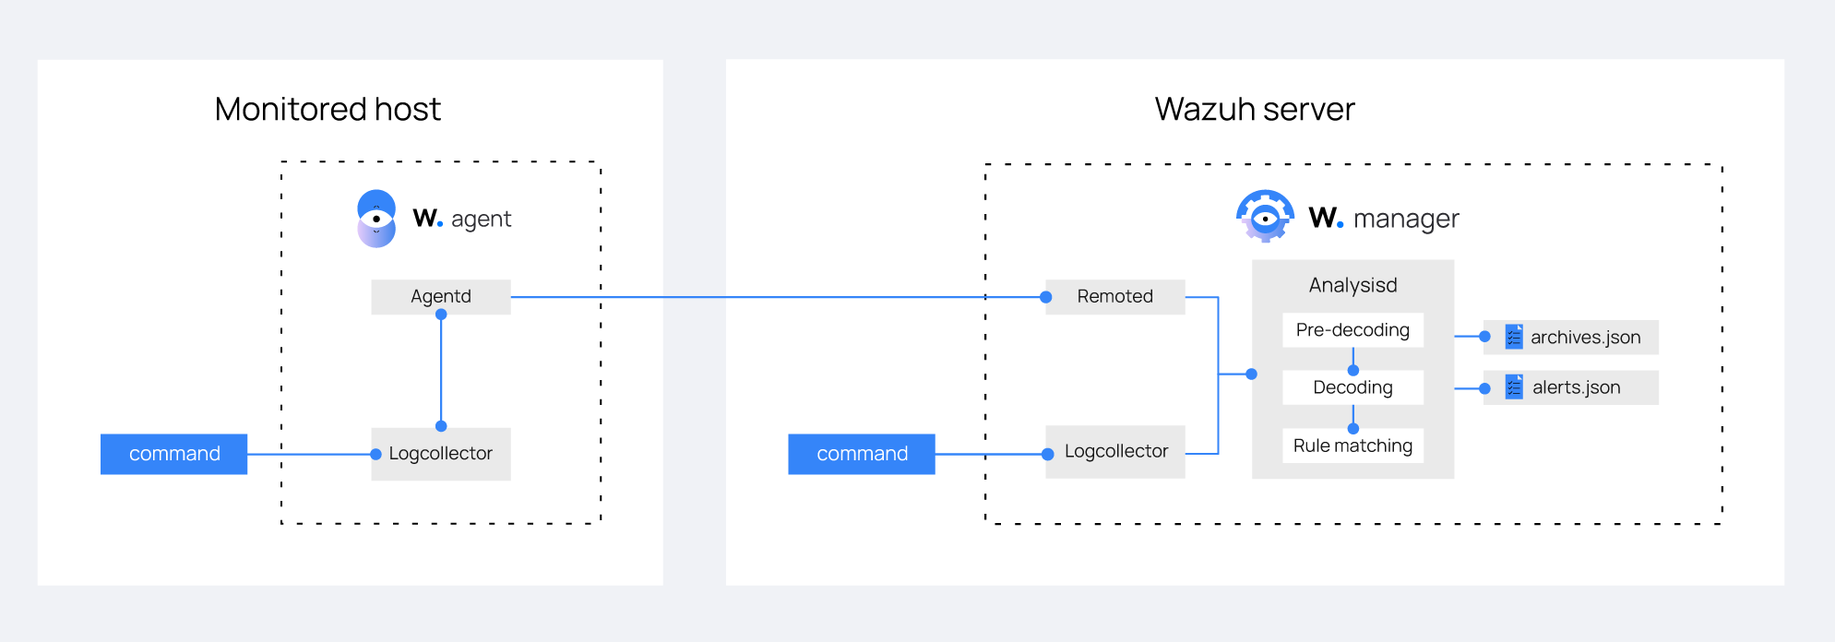
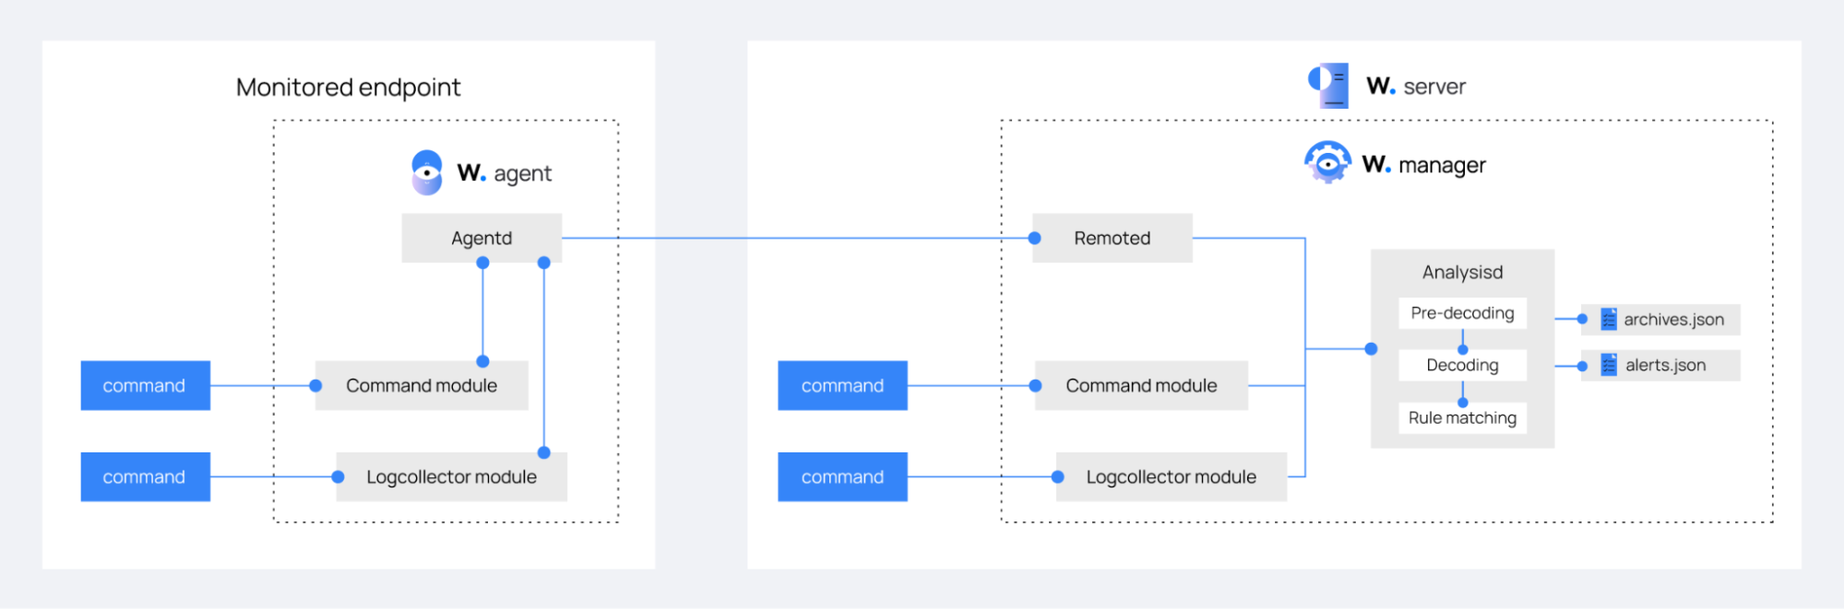
Command monitoring rework

diff --git a/source/user-manual/capabilities/command-monitoring/command-configuration.rst b/source/user-manual/capabilities/command-monitoring/command-configuration.rst
@@ -3,175 +3,98 @@
 .. meta::
   :description: Learn more about the command monitoring configuration. Check out the basic usage, how to monitor running Windows processes, and more. 
 
-.. _command-examples:
-
 Configuration
 =============
 
-#. `Basic usage`_
-#. `Monitor running Windows processes`_
-#. `Disk space utilization`_
-#. `Check if the output changed`_
-#. `Load average`_
-#. `Detect USB Storage`_
+This section of the documentation shows how to configure the modules responsible for running and monitoring commands, executables, and scripts on endpoints. It also provides the different configuration files available and suitable for different use cases.
 
-Basic usage
------------
+Modules
+-------
 
-Command monitoring is configured in the :ref:`localfile section<reference_ossec_localfile>` of :ref:`ossec.conf <reference_ossec_conf>`. It can also be centrally configured in :ref:`agent.conf<reference_agent_conf>`.
+Wazuh provides two modules for monitoring the output of system commands executed on an endpoint. The Command and the Logcollector modules periodically run and monitor commands or executables on Windows, Linux, and macOS endpoints.
 
-Monitor running Windows processes
----------------------------------
-Let's say you want to monitor running processes and alert if an important process is not running.
+Command module
+^^^^^^^^^^^^^^
 
-Example with notepad.exe as the important process to monitor:
+We recommend using the Command module to run and monitor endpoint commands. It provides the following capabilities:
 
-1. Configure the agent in the agent's **local_internal_options.conf** file to accept remote commands from the manager.
+- **Checksum verification**: It verifies and validates the integrity of every executed system binary or script by comparing predefined MD5, SHA1, and SHA256 hashes. This procedure ensures that the binary has not been altered or replaced.
 
-    .. code-block:: pkgconfig
+- **Encrypted communication**: All messages exchanged between the Wazuh server and agents are encrypted using AES encryption. This implies that every command output from the Wazuh agents is sent securely to the  Wazuh server.
 
-      # Logcollector - Whether or not to accept remote commands from the manager
-      logcollector.remote_commands=1
+- **Scheduling execution**: The Command module is flexible and can be configured to run commands on endpoints as follows:
 
-2. Define the command in the group's **agent.conf** file to list running processes.
+   - Immediately after the Wazuh agent starts.
 
-    .. code-block:: xml
+   - At specific time intervals (:ref:`interval <wodle_command_interval>`).
 
-      <localfile>
-          <log_format>full_command</log_format>
-          <command>tasklist</command>
-          <frequency>120</frequency>
-      </localfile>
+   - On a particular day of the month (:ref:`day <wodle_command_day>`) represented by the day's number.
 
-    The ``<frequency>`` tag defines how often the command will be run in seconds.
+   - On a specific day of the week (:ref:`wday <wodle_command_wday>`) represented by the day’s name.
 
-3. Define the rules.
+   - At a particular time (:ref:`time <wodle_command_time>`) of the day represented in the format hh:mm.
 
-    .. code-block:: xml
-
-      <rule id="100010" level="6">
-        <if_sid>530</if_sid>
-        <match>^ossec: output: 'tasklist'</match>
-        <description>Important process not running.</description>
-        <group>process_monitor,</group>
-      </rule>
-
-      <rule id="100011" level="0">
-        <if_sid>100010</if_sid>
-        <match>notepad.exe</match>
-        <description>Processes running as expected</description>
-        <group>process_monitor,</group>
-      </rule>
-
-    The first rule (100010) will generate an alert ("Important process not running") unless it is overridden by its child rule (100011) that matches `notepad.exe` in the command output.  You may add as many child rules as needed to enumerate all of the important processes you want to monitor.  You can also adapt this example to monitor Linux processes by changing the ``<command>`` from ``tasklist`` to a Linux command that lists processes, like ``ps -auxw``.
-
-Disk space utilization
-----------------------
-
-The ``df`` command helps here to check the available disk space for file systems.
-
-This can be configured in either the ``agent.conf`` file or the ``ossec.conf`` file:
+A standard command configuration block looks like this:
 
 .. code-block:: xml
 
-  <localfile>
-      <log_format>command</log_format>
-      <command>df -P</command>
-  </localfile>
-
-Wazuh already has a rule to monitor this
-
-.. code-block:: xml
-
-  <rule id="531" level="7" ignore="7200">
-    <if_sid>530</if_sid>
-    <match>ossec: output: 'df -P': /dev/</match>
-    <regex>100%</regex>
-    <description>Partition usage reached 100% (disk space monitor).</description>
-    <group>low_diskspace,pci_dss_10.6.1,</group>
-  </rule>
+   <wodle name="command">
+     <disabled>no</disabled>
+     <tag>test</tag>
+     <command>/bin/bash /root/script.sh</command>
+     <interval>1d</interval>
+     <ignore_output>no</ignore_output>
+     <run_on_start>yes</run_on_start>
+     <timeout>0</timeout>
+     <verify_md5>11227b11f565de042c48654a241e9d1c</verify_md5>
+     <verify_sha1>be705c5a89d7bf74185c86c5c3c562608f6e6478</verify_sha1>
+     <verify_sha256>292a188e498caea5c5fbfb0beca413c980e7a5edf40d47cf70e1dbc33e4f395e</verify_sha256>
+   </wodle>
 
 
-The system will alert once the disk space usage on any partition reaches 100%.
-
-Check if the output changed
----------------------------
-
-In this case, the Linux "netstat" command is used along with the :ref:`check_diff option <rules_check_diff>` to monitor for changes in listening tcp sockets.
-
-This can be configured in either the ``agent.conf`` file or the ``ossec.conf`` file:
-
-.. code-block:: xml
-
-  <localfile>
-    <log_format>full_command</log_format>
-    <command>netstat -tulpn | sed 's/\([[:alnum:]]\+\)\ \+[[:digit:]]\+\ \+[[:digit:]]\+\ \+\(.*\):\([[:digit:]]*\)\ \+\([0-9\.\:\*]\+\).\+\ \([[:digit:]]*\/[[:alnum:]\-]*\).*/\1 \2 == \3 == \4 \5/' | sort -k 4 -g | sed 's/ == \(.*\) ==/:\1/' | sed 1,2d</command>
-    <alias>netstat listening ports</alias>
-    <frequency>360</frequency>
-  </localfile>
-
-Wazuh already has a rule to monitor this:
-
-.. code-block:: xml
-
-  <rule id="533" level="7">
-    <if_sid>530</if_sid>
-    <match>ossec: output: 'netstat listening ports</match>
-    <check_diff />
-    <description>Listened ports status (netstat) changed (new port opened or closed).</description>
-    <group>pci_dss_10.2.7,pci_dss_10.6.1,gpg13_10.1,gdpr_IV_35.7.d,</group>
-  </rule>
-
-If the output changes, the system will generate an alert indicating a network listener has disappeared or a new one has appeared. This may indicate something is broken or a network backdoor has been installed.
-
-Load average
-------------
-
-Wazuh can be configured to monitor the Linux ``uptime`` command and alert when it is higher than a given threshold, like two load averages in this example.
-
-This can be configured in ``agent.conf`` or ``ossec.conf``:
-
-.. code-block:: xml
-
-  <localfile>
-      <log_format>command</log_format>
-      <command>uptime</command>
-  </localfile>
-
-And the custom rule to alert when "uptime" is higher than two load averages:
-
-.. code-block:: xml
-
-  <rule id="100101" level="7" ignore="7200">
-    <if_sid>530</if_sid>
-    <match>ossec: output: 'uptime': </match>
-    <regex>load average: 2.</regex>
-    <description>Load average reached 2..</description>
-  </rule>
-
-Detect USB Storage
-------------------
-
-Wazuh can be configured to alert when a USB storage device is connected. This example is for a Windows agent.
-
-Configure your agent to monitor the USBSTOR registry entry by adding the following to the group's ``agent.conf``:
-
-.. code-block:: xml
-
-  <agent_config os="Windows">
-    <localfile>
-        <log_format>full_command</log_format>
-        <command>reg QUERY HKLM\SYSTEM\CurrentControlSet\Enum\USBSTOR</command>
-    </localfile>
-  </agent_config>
-
-Next, create a custom rule:
-
-.. code-block:: xml
-
-  <rule id="140125" level="7">
-      <if_sid>530</if_sid>
-      <match>ossec: output: 'reg QUERY</match>
-      <check_diff />
-      <description>New USB device connected</description>
-  </rule>
++--------------------+---------------+--------------------------------------------------+---------------------------------------------------------------------------------------------------------------------------------------------------------------------------------------------------------------------------------------------------------------------------------------------------+---------------------------------------------------------------------------------------------------------------------------------------+
+| Options            | Default value | Allowed values                                   | Description                                                                                                                                                                                                                                                                                       | Note                                                                                                                                  |
++====================+===============+==================================================+===================================================================================================================================================================================================================================================================================================+=======================================================================================================================================+
+| **Main options**                                                                                                                                                                                                                                                                                                                                                                                                                                                                                                                  |
++--------------------+---------------+--------------------------------------------------+---------------------------------------------------------------------------------------------------------------------------------------------------------------------------------------------------------------------------------------------------------------------------------------------------+---------------------------------------------------------------------------------------------------------------------------------------+
+| disabled           | no            | yes, no                                          | Disables the Command module when set to ``yes``.                                                                                                                                                                                                                                                  |                                                                                                                                       |
++--------------------+---------------+--------------------------------------------------+---------------------------------------------------------------------------------------------------------------------------------------------------------------------------------------------------------------------------------------------------------------------------------------------------+---------------------------------------------------------------------------------------------------------------------------------------+
+| tag                | no            | N/A                                              | Tags the command with a descriptive name in the command output. For example, ``test`` in the configuration block above will be present in the command output.                                                                                                                                     |                                                                                                                                       |
++--------------------+---------------+--------------------------------------------------+---------------------------------------------------------------------------------------------------------------------------------------------------------------------------------------------------------------------------------------------------------------------------------------------------+---------------------------------------------------------------------------------------------------------------------------------------+
+|command             |               | - A command                                      | Specifies the path to a command, binary, or script to be executed.                                                                                                                                                                                                                                |                                                                                                                                       |
+|                    |               | - Path to a binary                               |                                                                                                                                                                                                                                                                                                   |                                                                                                                                       |
+|                    |               | - Path to a script                               |                                                                                                                                                                                                                                                                                                   |                                                                                                                                       |
++--------------------+---------------+--------------------------------------------------+---------------------------------------------------------------------------------------------------------------------------------------------------------------------------------------------------------------------------------------------------------------------------------------------------+---------------------------------------------------------------------------------------------------------------------------------------+
+|ignore_output       | no            | yes, no                                          | Specifies whether the output of a command is ignored. When this option is set to ``yes``, the command output is not forwarded to the Wazuh server.                                                                                                                                                |                                                                                                                                       |
++--------------------+---------------+--------------------------------------------------+---------------------------------------------------------------------------------------------------------------------------------------------------------------------------------------------------------------------------------------------------------------------------------------------------+---------------------------------------------------------------------------------------------------------------------------------------+
+|timeout             | N/A           | A positive number                                | Specifies the time (in seconds) for each command to wait for the completion of its execution. When this option is set to ``0``, it will wait indefinitely for the end of the process. If the timeout is any value other than ``0``, then the execution will finish when the set value expires.    |                                                                                                                                       |
++--------------------+---------------+--------------------------------------------------+---------------------------------------------------------------------------------------------------------------------------------------------------------------------------------------------------------------------------------------------------------------------------------------------------+---------------------------------------------------------------------------------------------------------------------------------------+
+|verify_md5          | N/A           | MD5 checksum                                     | Verifies the MD5 sum of the binary or the script to be executed against this value. If the checksum does not match, the command output is ignored.                                                                                                                                                | Verifies only the first argument of the command option if you passed two or more arguments.                                           |
++--------------------+---------------+--------------------------------------------------+---------------------------------------------------------------------------------------------------------------------------------------------------------------------------------------------------------------------------------------------------------------------------------------------------+---------------------------------------------------------------------------------------------------------------------------------------+
+|verify_sha1         | N/A           | SHA1 checksum                                    | Verifies the SHA1 sum of the binary or the script to be executed against this value. If the checksum does not match, the command output is ignored.                                                                                                                                               | Verifies only the first argument of the command option if you passed two or more arguments.                                           |
++--------------------+---------------+--------------------------------------------------+---------------------------------------------------------------------------------------------------------------------------------------------------------------------------------------------------------------------------------------------------------------------------------------------------+---------------------------------------------------------------------------------------------------------------------------------------+
+|verify_sha256       | N/A           | SHA256 checksum                                  | Verifies the SHA256 sum of the binary or the script to be executed against this value. If the checksum does not match, the command output is ignored.                                                                                                                                             | Verifies only the first argument of the command option if you passed two or more arguments.                                           |
++--------------------+---------------+--------------------------------------------------+---------------------------------------------------------------------------------------------------------------------------------------------------------------------------------------------------------------------------------------------------------------------------------------------------+---------------------------------------------------------------------------------------------------------------------------------------+
+|skip_verification   | N/A           | yes, no                                          | Runs the command defined even if the checksum does not match. When set to yes and there is a verification failure, the agent will log that the checksum verification failed but will run the specified command regardless of the failure.                                                         |                                                                                                                                       |
++--------------------+---------------+--------------------------------------------------+---------------------------------------------------------------------------------------------------------------------------------------------------------------------------------------------------------------------------------------------------------------------------------------------------+---------------------------------------------------------------------------------------------------------------------------------------+
+| **Scheduling options**                                                                                                                                                                                                                                                                                                                                                                                                                                                                                                            |
++--------------------+---------------+--------------------------------------------------+---------------------------------------------------------------------------------------------------------------------------------------------------------------------------------------------------------------------------------------------------------------------------------------------------+---------------------------------------------------------------------------------------------------------------------------------------+
+| run_on_start       | yes           | yes, no                                          | Runs the configured command immediately when the Wazuh service starts.                                                                                                                                                                                                                            |                                                                                                                                       |
++--------------------+---------------+--------------------------------------------------+---------------------------------------------------------------------------------------------------------------------------------------------------------------------------------------------------------------------------------------------------------------------------------------------------+---------------------------------------------------------------------------------------------------------------------------------------+
+| interval           | 2s            | A positive number that should contain a suffix   | Specifies how often a defined command executes.                                                                                                                                                                                                                                                   |                                                                                                                                       |
+|                    |               | character indicating a time unit, such as,       |                                                                                                                                                                                                                                                                                                   |                                                                                                                                       |
+|                    |               | s (seconds), m (minutes), h (hours), d (days)    |                                                                                                                                                                                                                                                                                                   |                                                                                                                                       |
++--------------------+---------------+--------------------------------------------------+---------------------------------------------------------------------------------------------------------------------------------------------------------------------------------------------------------------------------------------------------------------------------------------------------+---------------------------------------------------------------------------------------------------------------------------------------+
+| day                | N/A           | Day of the month [1..31]                         | Day of the month to run the command configured.                                                                                                                                                                                                                                                   | When the ``day`` option is set, the interval value must be a multiple of months. By default, the interval is set to a month.          |
++--------------------+---------------+--------------------------------------------------+---------------------------------------------------------------------------------------------------------------------------------------------------------------------------------------------------------------------------------------------------------------------------------------------------+---------------------------------------------------------------------------------------------------------------------------------------+
+| wday               | N/A           |                                                  | Day of the week to run the command configured. This option is not compatible with the ``day`` option.                                                                                                                                                                                             | When the ``wday`` option is set, the interval value must be a multiple of weeks. By default, the interval is set to a week.           |
+|                    |               | - sunday/sun                                     |                                                                                                                                                                                                                                                                                                   |                                                                                                                                       |
+|                    |               | - monday/mon                                     |                                                                                                                                                                                                                                                                                                   |                                                                                                                                       |
+|                    |               | - tuesday/tue                                    |                                                                                                                                                                                                                                                                                                   |                                                                                                                                       |
+|                    |               | - wednesday/wed                                  |                                                                                                                                                                                                                                                                                                   |                                                                                                                                       |
+|                    |               | - thursday/thu                                   |                                                                                                                                                                                                                                                                                                   |                                                                                                                                       |
+|                    |               | - friday/fri                                     |                                                                                                                                                                                                                                                                                                   |                                                                                                                                       |
+|                    |               | - saturday/sat                                   |                                                                                                                                                                                                                                                                                                   |                                                                                                                                       |
++--------------------+---------------+--------------------------------------------------+---------------------------------------------------------------------------------------------------------------------------------------------------------------------------------------------------------------------------------------------------------------------------------------------------+---------------------------------------------------------------------------------------------------------------------------------------+
+| time               | N/A           | Time of day [hh:mm]                              | When only the ``time`` option is set, the interval value must be a multiple of days or weeks. By default, the interval is set to a day.                                                                                                                                                           |                                                                                                                                       |
++--------------------+---------------+--------------------------------------------------+---------------------------------------------------------------------------------------------------------------------------------------------------------------------------------------------------------------------------------------------------------------------------------------------------+---------------------------------------------------------------------------------------------------------------------------------------+

diff --git a/source/user-manual/capabilities/command-monitoring/how-it-works.rst b/source/user-manual/capabilities/command-monitoring/how-it-works.rst
@@ -6,40 +6,23 @@
 How it works
 ============
 
-.. thumbnail:: ../../../images/manual/command-monitoring/command-monitoring.png
+The command monitoring capability works on all endpoints where the Wazuh server or agent is installed. Wazuh uses the Command and the Logcollector modules to run commands on the endpoints and forward the output to the Wazuh server for analysis.
+
+The steps below describe the sequence of actions from when a user configures the command monitoring module to when the Wazuh server generates alerts:
+
+#. The user adds the desired command to the local agent configuration file or remotely through the Wazuh server. You can achieve this configuration by using either the Command or the Logcollector module.
+
+#. The Wazuh agent periodically executes the command on the configured endpoint based on the set frequency or interval.
+
+#. The Wazuh agent monitors the command’s execution and forwards its output to the Wazuh server for analysis.
+
+#. The Wazuh server pre-decodes, decodes, and matches the received logs against predefined rules to generate security alerts. If the logs match the rules, an alert is generated and stored in the ``/var/ossec/logs/alerts/alerts.log`` and ``/var/ossec/logs/alerts/alerts.json`` files on the Wazuh server. The alert is simultaneously displayed on the Wazuh dashboard.
+
+The image below shows the components involved in the command monitoring process.
+
+.. thumbnail:: /images/manual/command-monitoring/command-monitoring.png
   :title: Command monitoring workflow
   :alt: Command monitoring workflow
   :align: center
-  :width: 100%
-
-The following is required to set up the monitoring of a specific command's output on agents:
-
-Configure Wazuh agents to accept remote commands from the manager
------------------------------------------------------------------
-
-Agents have the ability to run commands pushed from the manager (via the files in the ``shared`` directory). However, before this feature can be used, the agents must be explicitly configured to accept remote commands. This can be done by setting the :ref:`logcollector.remote_commands <ossec_internal_logcollector>` in the ``local_internal_options.conf`` file on each agent, as shown below:
-
-.. code-block:: yaml
-
-  # Logcollector - Whether or not to accept remote commands from the manager
-  logcollector.remote_commands=1
-
-Configure a command to monitor
-------------------------------
-
-The commands to run and monitor can be configured in the local the :ref:`ossec.conf <reference_ossec_conf>` file of individual agents. However, the ideal location for this configuration is in the appropriate configuration section of the :ref:`agent.conf <reference_agent_conf>` file on the manager.
-
-Example::
-
-  <localfile>
-       <log_format>full_command</log_format>
-       <command>.....</command>
-       <frequency>120</frequency>
-  </localfile>
-
-Process the output
-------------------
-
-After configuring the system to monitor the command's output as if it were log data, custom rules can be created, like for :ref:`Log analysis <manual_log_analysis>` for instance, in order to process the output and trigger an alert when alert criteria are met.
-
-.. note:: Read the `Scheduling remote commands for Wazuh agents <https://wazuh.com/blog/scheduling-remote-commands-for-wazuh-agents//>`_ document for more information and remote command use cases.
+  :width: 80%
+ 

diff --git a/source/user-manual/reference/ossec-conf/wodle-command.rst b/source/user-manual/reference/ossec-conf/wodle-command.rst
@@ -182,6 +182,8 @@ Run command immediately when service is started.
 | **Allowed values** | yes, no |
 +--------------------+---------+
 
+.. _wodle_command_interval:
+
 interval
 ^^^^^^^^
 
@@ -192,6 +194,8 @@ Time between commands executions.
 +--------------------+------------------------------------------------------------------------------------------------------------------------------------------------------+
 | **Allowed values** | A positive number that should contain a suffix character indicating a time unit, such as, s (seconds), m (minutes), h (hours), d (days), M (months). |
 +--------------------+------------------------------------------------------------------------------------------------------------------------------------------------------+
+
+.. _wodle_command_day:
 
 day
 ^^^
@@ -207,6 +211,8 @@ Day of the month to run the scan.
 .. note::
 
 	When the ``day`` option is set, the interval value must be a multiple of months. By default, the interval is set to a month.
+
+.. _wodle_command_wday:
 
 wday
 ^^^^
@@ -229,6 +235,8 @@ Day of the week to run the scan. This option is **not compatible** with the ``da
 .. note::
 
 	When the ``wday`` option is set, the interval value must be a multiple of weeks. By default, the interval is set to a week.
+
+.. _wodle_command_time:
 
 time
 ^^^^

diff --git a/source/user-manual/capabilities/command-monitoring/index.rst b/source/user-manual/capabilities/command-monitoring/index.rst
@@ -8,7 +8,9 @@
 Command monitoring
 ==================
 
-There are times when you may want to monitor things that are not in the logs. To address this, Wazuh incorporates the ability to monitor the output of specific commands and treat the output as though it were log file content.
+Wazuh command monitoring capability allows you to monitor the output of specific commands and treat the output as log content. Command monitoring can be used to monitor a variety of things, such as disk space utilization, load average, a change in network listeners, and running processes to ensure all important processes are running.
+
+Command monitoring can be used to detect a variety of anomalies and threats. For example, you could use it to monitor for a change in the output of the ``netstat`` command, which would indicate that a new network listener has been added or removed. You could also use it to monitor for the presence of specific strings in the output of the ``ps`` command, which could indicate that a malicious process is running.
 
 .. topic:: Contents
 
